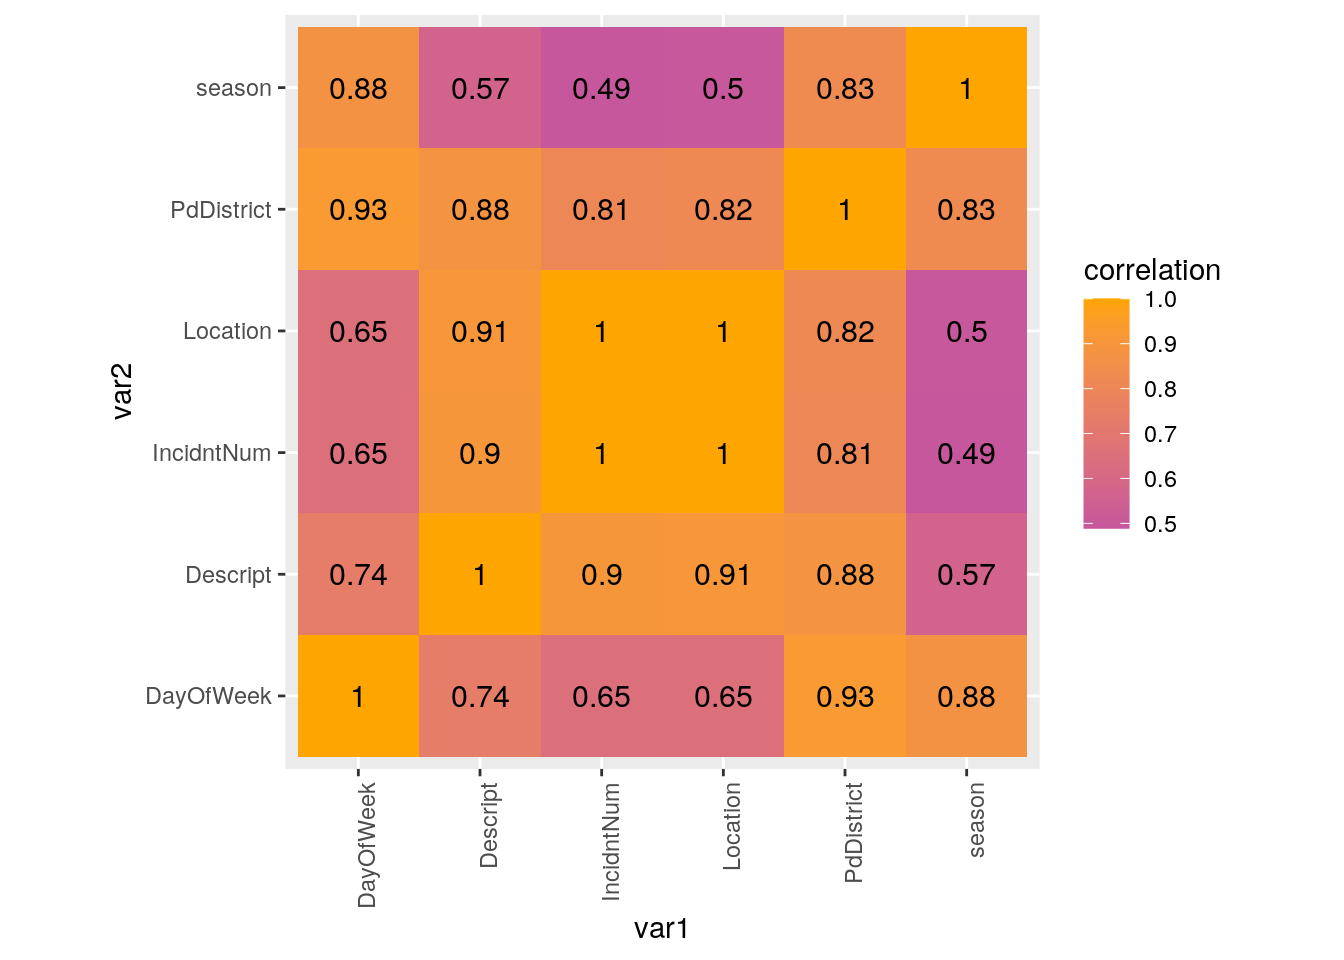
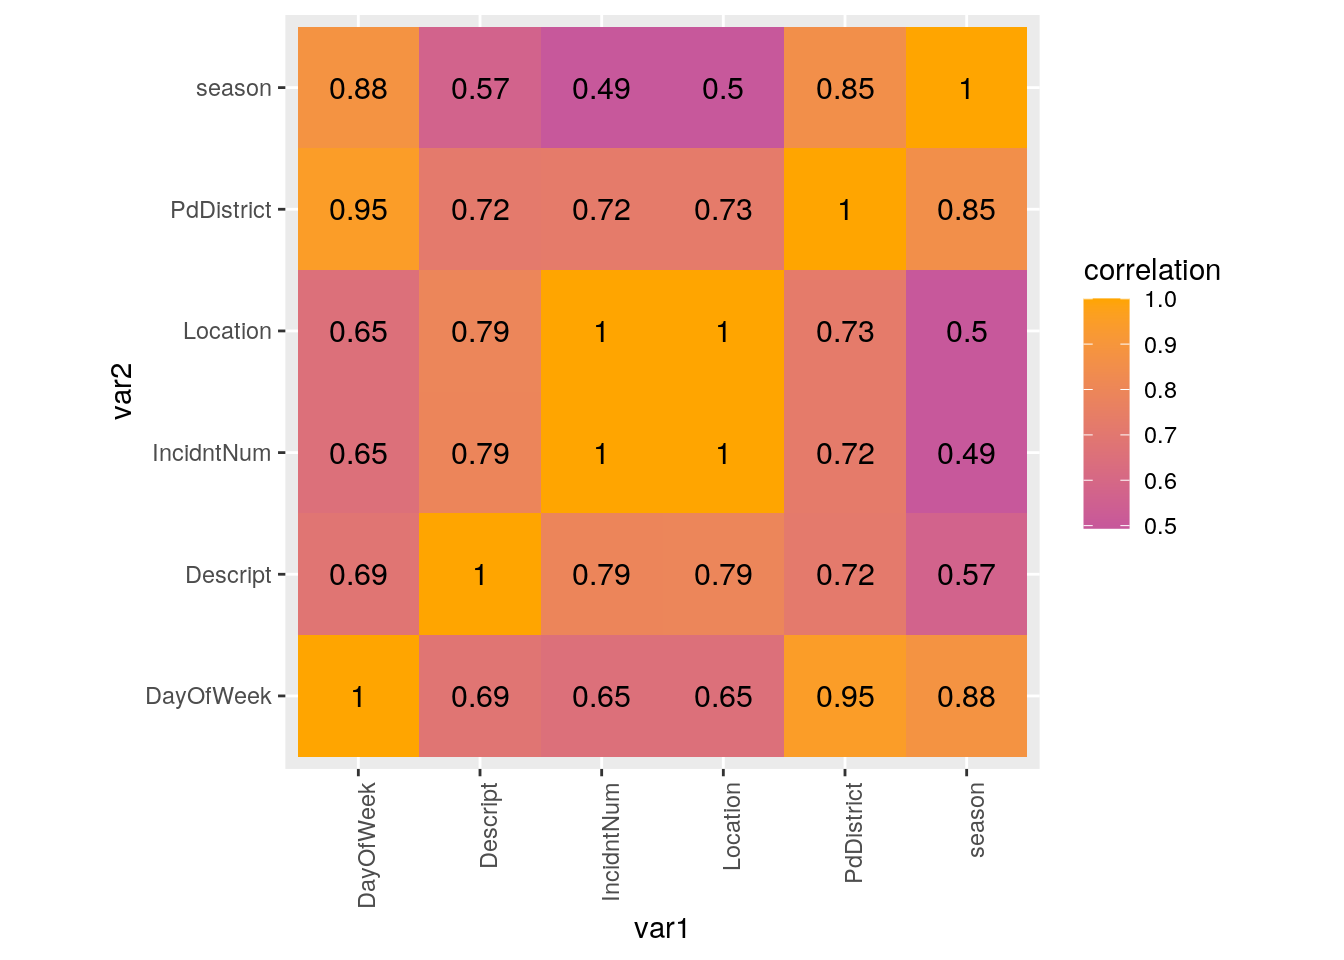
commit

diff --git a/project/project1/index.html b/project/project1/index.html
@@ -198,18 +198,18 @@ mergedat$month &lt;- as.numeric(mergedat$month)
 glimpse(mergedat)</code></pre>
 <pre><code>## Rows: 300
 ## Columns: 12
-## $ IncidntNum &lt;int&gt; 166074343, 170013583, 160849310, 166044095, 160513521, 160…
-## $ Category   &lt;fct&gt; LARCENY/THEFT, OTHER OFFENSES, WARRANTS, LARCENY/THEFT, TR…
-## $ Descript   &lt;fct&gt; &quot;GRAND THEFT FROM LOCKED AUTO&quot;, &quot;MISCELLANEOUS INVESTIGATI…
-## $ DayOfWeek  &lt;fct&gt; Wednesday, Sunday, Tuesday, Sunday, Friday, Wednesday, Fri…
+## $ IncidntNum &lt;int&gt; 160054462, 166088015, 161016942, 160997163, 160520786, 160…
+## $ Category   &lt;fct&gt; OTHER OFFENSES, NON-CRIMINAL, OTHER OFFENSES, LARCENY/THEF…
+## $ Descript   &lt;fct&gt; &quot;PROBATION VIOLATION&quot;, &quot;LOST PROPERTY&quot;, &quot;INCIDENT ON SCHOO…
+## $ DayOfWeek  &lt;fct&gt; Monday, Sunday, Thursday, Sunday, Saturday, Saturday, Frid…
 ## $ year       &lt;dbl&gt; 2016, 2016, 2016, 2016, 2016, 2016, 2016, 2016, 2016, 2016…
-## $ month      &lt;dbl&gt; 3, 12, 10, 2, 6, 1, 11, 10, 6, 10, 2, 12, 9, 4, 11, 12, 6,…
-## $ date       &lt;dbl&gt; 30, 11, 18, 21, 24, 13, 25, 20, 9, 31, 9, 13, 16, 17, 3, 1…
-## $ PdDistrict &lt;fct&gt; TARAVAL, MISSION, MISSION, CENTRAL, SOUTHERN, PARK, INGLES…
-## $ Resolution &lt;fct&gt; &quot;NONE&quot;, &quot;NONE&quot;, &quot;ARREST, BOOKED&quot;, &quot;NONE&quot;, &quot;NONE&quot;, &quot;ARREST,…
-## $ long       &lt;dbl&gt; -122.4825, -122.4197, -122.4066, -122.3993, -122.4012, -12…
-## $ lat        &lt;dbl&gt; 37.76332, 37.76585, 37.75716, 37.79886, 37.78810, 37.77016…
-## $ Location   &lt;fct&gt; &quot;(37.7633237012278, -122.482480961268)&quot;, &quot;(37.765851097743…</code></pre>
+## $ month      &lt;dbl&gt; 1, 4, 12, 12, 6, 8, 1, 5, 3, 9, 8, 6, 5, 11, 1, 6, 10, 3, …
+## $ date       &lt;dbl&gt; 18, 17, 15, 4, 18, 13, 22, 11, 30, 12, 31, 25, 20, 7, 27, …
+## $ PdDistrict &lt;fct&gt; PARK, NORTHERN, INGLESIDE, INGLESIDE, NORTHERN, SOUTHERN, …
+## $ Resolution &lt;fct&gt; &quot;ARREST, BOOKED&quot;, &quot;NONE&quot;, &quot;NONE&quot;, &quot;NONE&quot;, &quot;NONE&quot;, &quot;NONE&quot;, …
+## $ long       &lt;dbl&gt; -122.4542, -122.4379, -122.4069, -122.4372, -122.4218, -12…
+## $ lat        &lt;dbl&gt; 37.74596, 37.80061, 37.71886, 37.72133, 37.77518, 37.78448…
+## $ Location   &lt;fct&gt; &quot;(37.7459562953856, -122.454239907613)&quot;, &quot;(37.800607533158…</code></pre>
 <p><em>I used a full join in order to minimize the loss of data. There were originally over 100,000 rows in each dataset and 13 columns for 2016 data, and 34 columns for the 2018 data. However, I realized there are lots of unnecessary columns in 2018 dataset which were not matching with 2016 dataset. Therefore, I decided to drop some columns using <code>select()</code>. By dropping some datasets, the potential problems would be the loss of unique columns by each dataset. I also dicided to randomly choose 300 rows from each data because it took too long to print out outputs when I had the original data, but I made sure choosing the rows ramdomly to see more accurate results.</em></p>
 </div>
 <div id="tidying-rearranging-widelong" class="section level2">
@@ -239,7 +239,7 @@ yes_no %&gt;% select(yes, no) %&gt;% summarize_all(n_distinct)</code></pre>
 <pre><code>## # A tibble: 1 x 2
 ##     yes    no
 ##   &lt;int&gt; &lt;int&gt;
-## 1   296     3</code></pre>
+## 1   296     2</code></pre>
 <p><em>Since my datasets are already tidy, I generated a new dataset 'yes_no' which has a categorical row which tells if the criminal is arrested or not. I used <code>pivot_wider</code> in order to see yes and no response in the separate columns. From the new dataset <code>yes_no</code>, we can observe that there are 391 crime cases that are resolved and 207 crime cases are not resolved. </em></p>
 </div>
 <div id="wrangling" class="section level2">
@@ -267,18 +267,18 @@ mergedat &lt;- mergedat %&gt;% mutate(season = ifelse(month %in%
 mergedat %&gt;% select(month, season) %&gt;% table()</code></pre>
 <pre><code>##      season
 ## month fall spring summer winter
-##    1     0      0      0     30
-##    2     0      0      0     17
-##    3     0     25      0      0
-##    4     0     31      0      0
-##    5     0     24      0      0
-##    6     0      0     18      0
-##    7     0      0     17      0
-##    8     0      0     27      0
-##    9    22      0      0      0
-##    10   26      0      0      0
-##    11   28      0      0      0
-##    12    0      0      0     35</code></pre>
+##    1     0      0      0     23
+##    2     0      0      0     20
+##    3     0     28      0      0
+##    4     0     25      0      0
+##    5     0     27      0      0
+##    6     0      0     31      0
+##    7     0      0     27      0
+##    8     0      0     19      0
+##    9    19      0      0      0
+##    10   25      0      0      0
+##    11   26      0      0      0
+##    12    0      0      0     30</code></pre>
 <pre class="r"><code># Capitalize the character values in Category,
 # Descript, PdDistrict, and Resolution in order to
 # accurately find the distinct variables
@@ -293,47 +293,50 @@ mergedat %&gt;% group_by(PdDistrict) %&gt;% summarize_all(n_distinct) %&gt;%
 <pre><code>## # A tibble: 10 x 13
 ##    PdDistrict IncidntNum Category Descript DayOfWeek  year month  date
 ##    &lt;chr&gt;           &lt;int&gt;    &lt;int&gt;    &lt;int&gt;     &lt;int&gt; &lt;int&gt; &lt;int&gt; &lt;int&gt;
-##  1 SOUTHERN           70       18       42         7     1    12    27
-##  2 NORTHERN           43       16       32         7     1    12    27
-##  3 CENTRAL            32       10       22         6     1    11    22
-##  4 MISSION            32       12       22         7     1    11    22
-##  5 BAYVIEW            30        9       23         7     1    11    22
-##  6 TARAVAL            24        8       15         7     1     9    20
-##  7 TENDERLOIN         23       10       19         7     1    10    18
-##  8 INGLESIDE          22       10       18         6     1    10    17
-##  9 PARK               12        6        9         6     1     6    11
-## 10 RICHMOND           12        6        8         6     1     6    11
+##  1 CENTRAL            47       14       29         7     1    12    25
+##  2 SOUTHERN           43       15       25         7     1    12    22
+##  3 MISSION            35       17       29         7     1    12    21
+##  4 NORTHERN           35       10       21         7     1    12    20
+##  5 INGLESIDE          34       14       30         7     1    12    21
+##  6 BAYVIEW            23       12       22         6     1    12    15
+##  7 TARAVAL            23        9       18         7     1    10    15
+##  8 PARK               21       12       19         5     1    11    13
+##  9 RICHMOND           20        7       12         6     1    10    16
+## 10 TENDERLOIN         18       11       17         6     1     9    12
 ## # … with 5 more variables: Resolution &lt;int&gt;, long &lt;int&gt;, lat &lt;int&gt;,
 ## #   Location &lt;int&gt;, season &lt;int&gt;</code></pre>
 <pre class="r"><code># Group by the Category of the crime to see which
 # category of crime is the most common.
 mergedat %&gt;% group_by(Category) %&gt;% summarize_all(n_distinct) %&gt;% 
     arrange(desc(IncidntNum))</code></pre>
-<pre><code>## # A tibble: 22 x 13
+<pre><code>## # A tibble: 25 x 13
 ##    Category IncidntNum Descript DayOfWeek  year month  date PdDistrict
 ##    &lt;chr&gt;         &lt;int&gt;    &lt;int&gt;     &lt;int&gt; &lt;int&gt; &lt;int&gt; &lt;int&gt;      &lt;int&gt;
-##  1 LARCENY…         84       15         7     1    12    30         10
-##  2 NON-CRI…         45       11         7     1    12    24         10
-##  3 OTHER O…         44       17         7     1    12    26         10
-##  4 ASSAULT          26        9         7     1    10    14          9
-##  5 VANDALI…         18        7         7     1    10    14          7
-##  6 SUSPICI…         10        2         6     1     7     8          6
-##  7 VEHICLE…         10        3         6     1     7     7          6
-##  8 DRUG/NA…          9        5         7     1     7     8          5
-##  9 BURGLARY          8        6         6     1     7     8          7
-## 10 ROBBERY           8        5         4     1     5     7          5
-## 11 WARRANTS          8        2         4     1     6     8          5
-## 12 MISSING…          6        3         5     1     4     5          5
-## 13 TRESPASS          6        2         4     1     4     5          4
-## 14 DISORDE…          3        2         2     1     2     3          3
-## 15 FRAUD             3        2         2     1     3     3          2
-## 16 KIDNAPP…          3        2         3     1     2     3          2
-## 17 DRUNKEN…          2        1         2     1     2     2          2
-## 18 FORGERY…          2        2         2     1     2     2          2
-## 19 SEX OFF…          2        2         2     1     2     2          2
-## 20 PROSTIT…          1        1         1     1     1     1          1
-## 21 RECOVER…          1        1         1     1     1     1          1
-## 22 SECONDA…          1        1         1     1     1     1          1
+##  1 LARCENY…         85       14         7     1    12    29         10
+##  2 NON-CRI…         38       10         7     1    12    22          9
+##  3 OTHER O…         38       19         7     1    12    22          9
+##  4 VANDALI…         19        3         6     1    10    18          9
+##  5 ASSAULT          18        9         7     1    10    15          8
+##  6 WARRANTS         14        3         7     1    11    10          9
+##  7 VEHICLE…         13        5         5     1     9    11          8
+##  8 BURGLARY         11        9         5     1     7    10          6
+##  9 SUSPICI…          9        2         6     1     6     6          6
+## 10 DRUG/NA…          7        4         5     1     7     6          5
+## 11 WEAPON …          7        6         5     1     6     5          6
+## 12 MISSING…          6        2         5     1     6     5          4
+## 13 SECONDA…          6        3         3     1     5     6          5
+## 14 DRIVING…          4        1         3     1     2     4          3
+## 15 FRAUD             4        4         3     1     4     4          4
+## 16 ROBBERY           4        2         4     1     4     3          4
+## 17 TRESPASS          4        2         4     1     4     4          4
+## 18 PROSTIT…          3        2         3     1     3     3          3
+## 19 DISORDE…          2        2         2     1     2     1          1
+## 20 FORGERY…          2        2         2     1     2     2          2
+## 21 STOLEN …          2        1         2     1     2     2          2
+## 22 ARSON             1        1         1     1     1     1          1
+## 23 RECOVER…          1        1         1     1     1     1          1
+## 24 RUNAWAY           1        1         1     1     1     1          1
+## 25 SEX OFF…          1        1         1     1     1     1          1
 ## # … with 5 more variables: Resolution &lt;int&gt;, long &lt;int&gt;, lat &lt;int&gt;,
 ## #   Location &lt;int&gt;, season &lt;int&gt;</code></pre>
 <pre class="r"><code>category &lt;- mergedat %&gt;% group_by(Category) %&gt;% summarize_all(n_distinct) %&gt;% 
@@ -348,30 +351,30 @@ mergedat %&gt;% group_by(PdDistrict, DayOfWeek) %&gt;% summarize_all(n_distinct)
         sd = sd(IncidntNum), median = median(IncidntNum)) %&gt;% 
     arrange(desc(PdDistrict))</code></pre>
 <pre><code>## # A tibble: 10 x 7
-##    PdDistrict   max   min    var   avg    sd median
-##    &lt;chr&gt;      &lt;int&gt; &lt;int&gt;  &lt;dbl&gt; &lt;dbl&gt; &lt;dbl&gt;  &lt;dbl&gt;
-##  1 TENDERLOIN     7     1  3.57   3.29 1.89     3  
-##  2 TARAVAL        5     1  2.29   3.43 1.51     4  
-##  3 SOUTHERN      18     4 19     10    4.36     9  
-##  4 RICHMOND       5     1  2.4    2    1.55     1.5
-##  5 PARK           3     1  0.8    2    0.894    2  
-##  6 NORTHERN      10     4  3.81   6.14 1.95     6  
-##  7 MISSION       12     1 13.0    4.57 3.60     4  
-##  8 INGLESIDE      6     1  5.07   3.67 2.25     3.5
-##  9 CENTRAL        6     4  0.667  5.33 0.816    5.5
-## 10 BAYVIEW        8     2  4.24   4.29 2.06     4</code></pre>
+##    PdDistrict   max   min   var   avg    sd median
+##    &lt;chr&gt;      &lt;int&gt; &lt;int&gt; &lt;dbl&gt; &lt;dbl&gt; &lt;dbl&gt;  &lt;dbl&gt;
+##  1 TENDERLOIN     6     1  4     3    2        3  
+##  2 TARAVAL        6     1  2.90  3.29 1.70     3  
+##  3 SOUTHERN      11     3  5.81  6.14 2.41     6  
+##  4 RICHMOND       5     1  2.27  3.33 1.51     3  
+##  5 PARK           5     3  0.7   4.2  0.837    4  
+##  6 NORTHERN       8     2  4     5    2        5  
+##  7 MISSION       12     2 11.7   5    3.42     4  
+##  8 INGLESIDE      8     1  5.81  4.86 2.41     5  
+##  9 CENTRAL       10     2  7.90  6.71 2.81     7  
+## 10 BAYVIEW        8     2  4.97  3.83 2.23     3.5</code></pre>
 <pre class="r"><code># Count the number of crimes that the criminals are
 # arrested.
 mergedat %&gt;% filter(str_detect(Resolution, &quot;ARREST&quot;)) %&gt;% 
     summarize(n())</code></pre>
 <pre><code>##   n()
-## 1  79</code></pre>
+## 1  81</code></pre>
 <pre class="r"><code># Count the number of crimes that the criminals are
 # not arrested or lost.
 mergedat %&gt;% filter(str_detect(Resolution, &quot;ACTIVE&quot;) | 
     str_detect(Resolution, &quot;UNFOUNDED&quot;)) %&gt;% summarize(n())</code></pre>
 <pre><code>##   n()
-## 1   2</code></pre>
+## 1   1</code></pre>
 <p><em>For the first output, I used <code>mutate()</code> in order to group the month column into four seasons. The result shows that there is the least crime during the fall. The second part was another use of <code>mutate()</code> function in order to capitalize all character values in Category, Descript, PdDistrict, and Resolution which helped me to solve the problem that was caused because dataset in 2016 was capitalized and dataset in 2018 was not capitalized. It was helpful to see the distinct variables of those columns. For the second output, I used <code>group_by</code> for the Police District so that we can see which district has the most crimes. To enhance the visibility, I used <code>arranged()</code>. The result shows that the Southern Police District had the most incidents and categories of crime. Similarly, for the third output, I grouped by the Category of the crime to see which category of crime is the most common. The result shows that the most common category was larceny/theft.</em></p>
 <p><em>For the fourth outcome, I grouped by police district and day of week in order to see maximum, minimum, variance, average, standard deviation, and median of the number of incidents within the groups. The result shows that in the Southern police district the range between minimum and maximum is the greatest, which is shown by their highest number of variance, and standard deviation. For the last output, I counted the number of cases that the criminals are arrested and the cases are resolved, and I also counted the number of cases that the criminals are not arrested yet or unfounded. The result shows that surprisingly there are more unresolved cases than resolved ones. </em></p>
 </div>
@@ -453,7 +456,7 @@ final &lt;- category %&gt;% select(IncidntNum, Descript,
     Location) %&gt;% scale %&gt;% as.data.frame
 pam2 &lt;- final %&gt;% pam(2)
 pam2$silinfo$avg.width</code></pre>
-<pre><code>## [1] 0.7408634</code></pre>
+<pre><code>## [1] 0.7027588</code></pre>
 <pre class="r"><code>plot(pam2, which = 2)</code></pre>
 <p><img src="../../project/Project1_files/figure-html/unnamed-chunk-6-2.png" width="672" style="display: block; margin: auto;" /></p>
 <pre class="r"><code>final &lt;- final %&gt;% mutate(cluster = as.factor(pam2$clustering))
@@ -468,7 +471,7 @@ ggplot(final, aes(x = IncidntNum, y = Descript, color = cluster)) +
 final %&gt;% plot_ly(x = ~IncidntNum, y = ~Descript, z = ~Location, 
     color = ~cluster, type = &quot;scatter3d&quot;, mode = &quot;markers&quot;)</code></pre>
 <div id="htmlwidget-1" style="width:672px;height:480px;" class="plotly html-widget"></div>
-<script type="application/json" data-for="htmlwidget-1">{"x":{"visdat":{"b8024401f7e":["function () ","plotlyVisDat"]},"cur_data":"b8024401f7e","attrs":{"b8024401f7e":{"x":{},"y":{},"z":{},"mode":"markers","color":{},"alpha_stroke":1,"sizes":[10,100],"spans":[1,20],"type":"scatter3d"}},"layout":{"margin":{"b":40,"l":60,"t":25,"r":10},"scene":{"xaxis":{"title":"IncidntNum"},"yaxis":{"title":"Descript"},"zaxis":{"title":"Location"}},"hovermode":"closest","showlegend":true},"source":"A","config":{"showSendToCloud":false},"data":[{"x":[3.49473530440812,1.55773085274005,1.50806407192805,0.61406201731202],"y":[2.27063087424706,1.39807403174164,2.70690929549977,0.961795610488929],"z":[3.46377685722902,1.54181751040937,1.54181751040937,0.658755107816563],"mode":"markers","type":"scatter3d","name":"1","marker":{"color":"rgba(102,194,165,1)","line":{"color":"rgba(102,194,165,1)"}},"textfont":{"color":"rgba(102,194,165,1)"},"error_y":{"color":"rgba(102,194,165,1)"},"error_x":{"color":"rgba(102,194,165,1)"},"line":{"color":"rgba(102,194,165,1)"},"frame":null},{"x":[0.216727770816007,-0.180606475680006,-0.180606475680006,-0.230273256492008,-0.279940037304009,-0.279940037304009,-0.279940037304009,-0.379273598928013,-0.379273598928013,-0.528273941364018,-0.528273941364018,-0.528273941364018,-0.577940722176019,-0.577940722176019,-0.577940722176019,-0.627607502988021,-0.627607502988021,-0.627607502988021],"y":[0.525517189236219,-0.565178863895556,-0.347039653269201,0.0892387679835089,0.307377978609864,0.0892387679835089,-0.565178863895556,-0.347039653269201,-0.565178863895556,-0.565178863895556,-0.565178863895556,-0.565178863895556,-0.783318074521911,-0.565178863895556,-0.565178863895556,-0.783318074521911,-0.783318074521911,-0.783318074521911],"z":[0.243196330125828,-0.172362447564907,-0.172362447564907,-0.224307294776249,-0.276252141987591,-0.276252141987591,-0.276252141987591,-0.380141836410274,-0.380141836410274,-0.5359763780443,-0.5359763780443,-0.5359763780443,-0.587921225255642,-0.587921225255642,-0.587921225255642,-0.639866072466984,-0.639866072466984,-0.639866072466984],"mode":"markers","type":"scatter3d","name":"2","marker":{"color":"rgba(141,160,203,1)","line":{"color":"rgba(141,160,203,1)"}},"textfont":{"color":"rgba(141,160,203,1)"},"error_y":{"color":"rgba(141,160,203,1)"},"error_x":{"color":"rgba(141,160,203,1)"},"line":{"color":"rgba(141,160,203,1)"},"frame":null}],"highlight":{"on":"plotly_click","persistent":false,"dynamic":false,"selectize":false,"opacityDim":0.2,"selected":{"opacity":1},"debounce":0},"shinyEvents":["plotly_hover","plotly_click","plotly_selected","plotly_relayout","plotly_brushed","plotly_brushing","plotly_clickannotation","plotly_doubleclick","plotly_deselect","plotly_afterplot","plotly_sunburstclick"],"base_url":"https://plot.ly"},"evals":[],"jsHooks":[]}</script>
+<script type="application/json" data-for="htmlwidget-1">{"x":{"visdat":{"11fb17f13ec0f":["function () ","plotlyVisDat"]},"cur_data":"11fb17f13ec0f","attrs":{"11fb17f13ec0f":{"x":{},"y":{},"z":{},"mode":"markers","color":{},"alpha_stroke":1,"sizes":[10,100],"spans":[1,20],"type":"scatter3d"}},"layout":{"margin":{"b":40,"l":60,"t":25,"r":10},"scene":{"xaxis":{"title":"IncidntNum"},"yaxis":{"title":"Descript"},"zaxis":{"title":"Location"}},"hovermode":"closest","showlegend":true},"source":"A","config":{"showSendToCloud":false},"data":[{"x":[3.99239056864957,1.4219473258204,1.4219473258204,0.328141690573938],"y":[2.1167650579389,1.23843930775679,3.21467224566655,1.01885787021126],"z":[4.00598669576958,1.3397725887682,1.45086484322659,0.339942298642677],"mode":"markers","type":"scatter3d","name":"1","marker":{"color":"rgba(102,194,165,1)","line":{"color":"rgba(102,194,165,1)"}},"textfont":{"color":"rgba(102,194,165,1)"},"error_y":{"color":"rgba(102,194,165,1)"},"error_x":{"color":"rgba(102,194,165,1)"},"line":{"color":"rgba(102,194,165,1)"},"frame":null},{"x":[0.382831972336261,0.109380563524646,0.0546902817623229,-0.0546902817623229,-0.164070845286969,-0.273451408811615,-0.273451408811615,-0.328141690573938,-0.328141690573938,-0.437522254098584,-0.437522254098584,-0.437522254098584,-0.437522254098584,-0.492212535860907,-0.546902817623229,-0.546902817623229,-0.546902817623229,-0.601593099385552,-0.601593099385552,-0.601593099385552,-0.601593099385552],"y":[-0.29863075506192,-0.29863075506192,0.140532120029139,1.01885787021126,-0.518212192607449,-0.0790493175163906,0.360113557574668,-0.518212192607449,-0.29863075506192,-0.737793630152979,-0.0790493175163906,-0.518212192607449,-0.518212192607449,-0.518212192607449,-0.518212192607449,-0.518212192607449,-0.737793630152979,-0.737793630152979,-0.737793630152979,-0.737793630152979,-0.737793630152979],"z":[0.395488425871872,0.117757789725895,0.062211662496699,-0.0488805919616921,-0.159972846420083,-0.271065100878474,-0.271065100878474,-0.32661122810767,-0.32661122810767,-0.437703482566061,-0.437703482566061,-0.437703482566061,-0.437703482566061,-0.493249609795257,-0.548795737024452,-0.548795737024452,-0.548795737024452,-0.604341864253648,-0.604341864253648,-0.604341864253648,-0.604341864253648],"mode":"markers","type":"scatter3d","name":"2","marker":{"color":"rgba(141,160,203,1)","line":{"color":"rgba(141,160,203,1)"}},"textfont":{"color":"rgba(141,160,203,1)"},"error_y":{"color":"rgba(141,160,203,1)"},"error_x":{"color":"rgba(141,160,203,1)"},"line":{"color":"rgba(141,160,203,1)"},"frame":null}],"highlight":{"on":"plotly_click","persistent":false,"dynamic":false,"selectize":false,"opacityDim":0.2,"selected":{"opacity":1},"debounce":0},"shinyEvents":["plotly_hover","plotly_click","plotly_selected","plotly_relayout","plotly_brushed","plotly_brushing","plotly_clickannotation","plotly_doubleclick","plotly_deselect","plotly_afterplot","plotly_sunburstclick"],"base_url":"https://plot.ly"},"evals":[],"jsHooks":[]}</script>
 <p><em>First of all, I used goodness-of-fit in order to find the best number of clusters for my dataset. The result shows that when it has 2 clusters, it has the highest silhouette width. When I coded silhouette plot of PAM, I got 0.79 for the average silhouette width, which means a strong structure has been found. </em></p>
 <p><em>For the visualization of the clusters, I visualized two variables(number of incidents and description), but in cluster based on three variables which are number of incidents, descriptions, locations. The plot shows that although cluster 2(blue) shows a pretty positively correlated relationship between the number of incidents and the number of descriptions, cluster 1(red) doesn't show clear relationship between those two variables. For the second visualization, I included all three variables. Both Descriptions vs Location, and the number of incidents vs Description had strong positive correlations for cluster 2, but they did not have strong correlation for the cluster 1. However, for Location vs number of incidents, both of the clusters had strong positively correlated relationship.</em></p>
 <p>Note that the <code>echo = FALSE</code> parameter was added to the code chunk to prevent printing of the R code that generated the plot.</p>
@@ -513,7 +516,7 @@ final %&gt;% plot_ly(x = ~IncidntNum, y = ~Descript, z = ~Location,
 ## [53] data.table_1.13.0  xml2_1.3.2         reprex_0.3.0       lubridate_1.7.9   
 ## [57] assertthat_0.2.1   rmarkdown_2.5      httr_1.4.2         rstudioapi_0.11   
 ## [61] R6_2.4.1           compiler_3.6.1</code></pre>
-<pre><code>## [1] &quot;2020-12-07 20:43:11 CST&quot;</code></pre>
+<pre><code>## [1] &quot;2020-12-07 20:50:50 CST&quot;</code></pre>
 <pre><code>##                                       sysname 
 ##                                       &quot;Linux&quot; 
 ##                                       release 

diff --git a/project/project2/index.html b/project/project2/index.html
@@ -664,7 +664,7 @@ summarize_all(diags, &quot;mean&quot;)</code></pre>
 ## [65] vctrs_0.3.2       foreach_1.5.0     cellranger_1.1.0  gtable_0.3.0     
 ## [69] assertthat_0.2.1  xfun_0.19         openxlsx_4.1.5    broom_0.7.0      
 ## [73] survival_3.2-3    iterators_1.0.12  ellipsis_0.3.1</code></pre>
-<pre><code>## [1] &quot;2020-12-07 20:43:23 CST&quot;</code></pre>
+<pre><code>## [1] &quot;2020-12-07 20:51:01 CST&quot;</code></pre>
 <pre><code>##                                       sysname 
 ##                                       &quot;Linux&quot; 
 ##                                       release 
